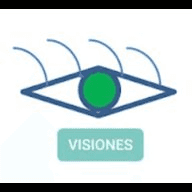
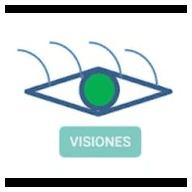
upload new build

diff --git a/react/dist/sw.js b/react/dist/sw.js
@@ -1,1 +1,1 @@
-if(!self.define){let s,e={};const i=(i,r)=>(i=new URL(i+".js",r).href,e[i]||new Promise((e=>{if("document"in self){const s=document.createElement("script");s.src=i,s.onload=e,document.head.appendChild(s)}else s=i,importScripts(i),e()})).then((()=>{let s=e[i];if(!s)throw new Error(`Module ${i} didn’t register its module`);return s})));self.define=(r,n)=>{const l=s||("document"in self?document.currentScript.src:"")||location.href;if(e[l])return;let u={};const o=s=>i(s,l),t={module:{uri:l},exports:u,require:o};e[l]=Promise.all(r.map((s=>t[s]||o(s)))).then((s=>(n(...s),u)))}}define(["./workbox-3e911b1d"],(function(s){"use strict";self.skipWaiting(),s.clientsClaim(),s.precacheAndRoute([{url:"assets/AuthLayout-BNupiWAD.js",revision:null},{url:"assets/basic-BROYbaGJ.js",revision:null},{url:"assets/favorites-BnTZRxoV.js",revision:null},{url:"assets/help-DarblNeO.js",revision:null},{url:"assets/index-DnXoUNjb.js",revision:null},{url:"assets/index-DYPAHR8C.css",revision:null},{url:"assets/live-Ca9cDcyj.js",revision:null},{url:"assets/login-D3cDqxdG.js",revision:null},{url:"assets/MembersLayout-C0-jdu8P.js",revision:null},{url:"assets/profile-icuxI7yq.js",revision:null},{url:"assets/QuestionLayout-6Y8x7X_d.js",revision:null},{url:"assets/register-8-Iaey6w.js",revision:null},{url:"assets/reset-confirmation-zarxb0Pb.js",revision:null},{url:"assets/reset-password-D_rxfxUL.js",revision:null},{url:"assets/store-SnNuN8Wp.js",revision:null},{url:"assets/subscription-Bj8Z3wu8.js",revision:null},{url:"assets/tarot-WUg91VCE.js",revision:null},{url:"assets/UserProfileLayout-BAhevAy5.js",revision:null},{url:"index.html",revision:"563b234c28875cdf6a56e76820101336"},{url:"registerSW.js",revision:"1872c500de691dce40960bb85481de07"},{url:"favicon.ico",revision:"d3529a38078700e4f08140c08fba5eea"},{url:"apple-touch-icon-180x180.png",revision:"7e23b26a448f09b23542a1ed5b1d6590"},{url:"pwa-64x64.png",revision:"e1a1185c861069b00a96ced2beb65d1c"},{url:"pwa-192x192.png",revision:"ae60ad8fd83c905c517aae62257ae534"},{url:"pwa-512x512.png",revision:"3d3a99276b14768b05cef0da5a447a3f"},{url:"manifest.webmanifest",revision:"450b515869ffa943e7ba5d3fa5ff6fd9"}],{}),s.cleanupOutdatedCaches(),s.registerRoute(new s.NavigationRoute(s.createHandlerBoundToURL("index.html")))}));
+if(!self.define){let s,e={};const i=(i,r)=>(i=new URL(i+".js",r).href,e[i]||new Promise((e=>{if("document"in self){const s=document.createElement("script");s.src=i,s.onload=e,document.head.appendChild(s)}else s=i,importScripts(i),e()})).then((()=>{let s=e[i];if(!s)throw new Error(`Module ${i} didn’t register its module`);return s})));self.define=(r,n)=>{const l=s||("document"in self?document.currentScript.src:"")||location.href;if(e[l])return;let u={};const o=s=>i(s,l),t={module:{uri:l},exports:u,require:o};e[l]=Promise.all(r.map((s=>t[s]||o(s)))).then((s=>(n(...s),u)))}}define(["./workbox-3e911b1d"],(function(s){"use strict";self.skipWaiting(),s.clientsClaim(),s.precacheAndRoute([{url:"assets/AuthLayout-BNupiWAD.js",revision:null},{url:"assets/basic-BROYbaGJ.js",revision:null},{url:"assets/favorites-BnTZRxoV.js",revision:null},{url:"assets/help-DarblNeO.js",revision:null},{url:"assets/index-DnXoUNjb.js",revision:null},{url:"assets/index-DYPAHR8C.css",revision:null},{url:"assets/live-Ca9cDcyj.js",revision:null},{url:"assets/login-D3cDqxdG.js",revision:null},{url:"assets/MembersLayout-C0-jdu8P.js",revision:null},{url:"assets/profile-icuxI7yq.js",revision:null},{url:"assets/QuestionLayout-6Y8x7X_d.js",revision:null},{url:"assets/register-8-Iaey6w.js",revision:null},{url:"assets/reset-confirmation-zarxb0Pb.js",revision:null},{url:"assets/reset-password-D_rxfxUL.js",revision:null},{url:"assets/store-SnNuN8Wp.js",revision:null},{url:"assets/subscription-Bj8Z3wu8.js",revision:null},{url:"assets/tarot-WUg91VCE.js",revision:null},{url:"assets/UserProfileLayout-BAhevAy5.js",revision:null},{url:"index.html",revision:"563b234c28875cdf6a56e76820101336"},{url:"registerSW.js",revision:"1872c500de691dce40960bb85481de07"},{url:"favicon.ico",revision:"d976278abb56ea8a0fdeeaeb881c4d0b"},{url:"apple-touch-icon-180x180.png",revision:"955f33c854b159a5a74c3ad26ad3b3f2"},{url:"pwa-64x64.png",revision:"e2949066bb4c74f2edb6691c1c3c0032"},{url:"pwa-192x192.png",revision:"b43b410cc5a0fc2116e5f73e3e7101de"},{url:"pwa-512x512.png",revision:"23da8a484aa0872ea6e9f1ed8bb74326"},{url:"manifest.webmanifest",revision:"450b515869ffa943e7ba5d3fa5ff6fd9"}],{}),s.cleanupOutdatedCaches(),s.registerRoute(new s.NavigationRoute(s.createHandlerBoundToURL("index.html")))}));

diff --git a/react/pwa-assets.config.ts b/react/pwa-assets.config.ts
@@ -1,31 +1,16 @@
 import {
     createAppleSplashScreens,
     defineConfig,
-    
+    minimal2023Preset
 } from '@vite-pwa/assets-generator/config';
-import type { Preset } from '@vite-pwa/assets-generator/config';
 
-export const minimalPresetNoPadding: Preset = {
-    transparent: {
-      sizes: [64, 192, 512],
-      favicons: [[48, 'favicon.ico']],
-      padding: 0
-    },
-    maskable: {
-      sizes: [512],
-      padding: 0
-    },
-    apple: {
-      sizes: [180],
-      padding: 0
-    }
-  }
+  
   export default defineConfig({
     headLinkOptions: {
       preset: '2023'
     },
     preset: {
-      ...minimalPresetNoPadding,
+      ...minimal2023Preset,
       appleSplashScreens: createAppleSplashScreens({
         padding: 0,
         resizeOptions: { background: 'white', fit: 'contain' },
@@ -57,7 +42,4 @@ export const minimalPresetNoPadding: Preset = {
     },
     images: ['public/logo.jpeg']
   })
-
-
-
 
